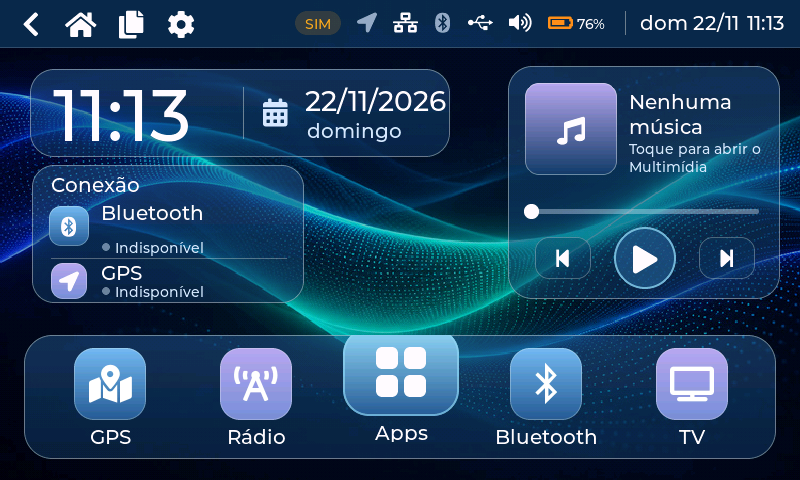
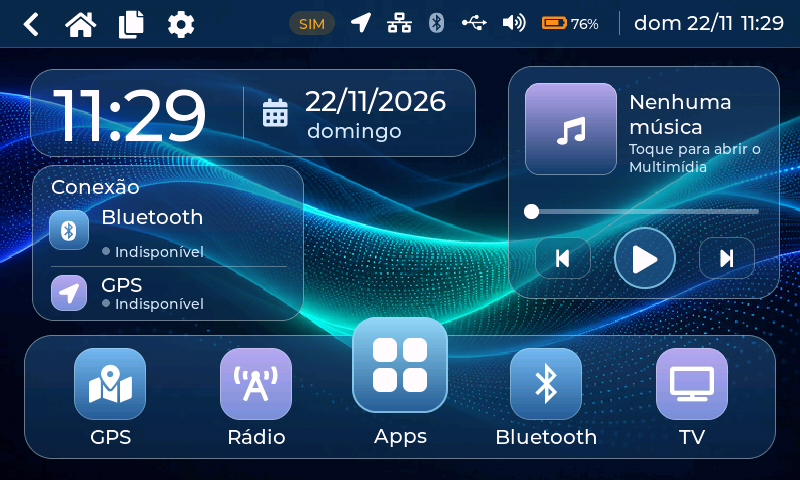
Foston Glass: folgas nos cartões e Apps quadrado vazando do dock
Pedido do usuário (foto do aparelho): a data encostava na borda do cartão do
relógio (420 -> 446 px) e o GPS na borda de baixo do cartão Conexão (138 ->
156 px, linhas espaçadas). O Apps era filho do dock e a parte acima da borda
era cortada no aparelho; agora é um quadrado arredondado de 96 px por cima do
dock (filho da tela), 18 px acima dele, com o rótulo alinhado aos outros.

diff --git a/src/ui/screens/scr_home_glass.c b/src/ui/screens/scr_home_glass.c
@@ -49,7 +49,7 @@ static void fmt_ms(char *out, size_t n, int ms)
 
 static void clock_card(lv_obj_t *p)
 {
-    lv_obj_t *c = glass_card(p, 30, 21, 420, 88, 24);
+    lv_obj_t *c = glass_card(p, 30, 21, 446, 88, 24);      /* folga à direita da data */
     clk = glass_label(c, "--:--", BF_FONT_CLOCK, GL_WHITE);
     lv_obj_align(clk, LV_ALIGN_LEFT_MID, 22, 2);
     lv_obj_t *div = lv_obj_create(c);
@@ -132,11 +132,11 @@ static lv_obj_t *dot(lv_obj_t *parent)
 
 static void conn_card(lv_obj_t *p)
 {
-    lv_obj_t *c = glass_card(p, 32, 117, 272, 138, 22);
+    lv_obj_t *c = glass_card(p, 32, 117, 272, 156, 22);     /* folga abaixo do GPS */
     lv_obj_t *t = glass_label(c, tr(S_GL_CONNECTION), BF_FONT_M, GL_WHITE);
-    lv_obj_set_pos(t, 18, 6);
+    lv_obj_set_pos(t, 18, 8);
 
-    lv_obj_t *r = row(c, 32, 58, open_bt);
+    lv_obj_t *r = row(c, 36, 60, open_bt);
     lv_obj_t *ic = glass_tile(r, 40, 12, GL_LIGHT, GL_BLUE, NULL, LV_SYMBOL_BLUETOOTH, BF_FONT_M);
     lv_obj_set_pos(ic, 10, 8);
     lv_obj_t *n = glass_label(r, tr(S_APP_BLUETOOTH), BF_FONT_M, GL_WHITE);
@@ -153,11 +153,11 @@ static void conn_card(lv_obj_t *p)
     lv_obj_t *line = lv_obj_create(c);
     lv_obj_remove_style_all(line);
     lv_obj_set_size(line, 236, 1);
-    lv_obj_set_pos(line, 18, 92);
+    lv_obj_set_pos(line, 18, 100);
     lv_obj_set_style_bg_color(line, lv_color_white(), 0);
     lv_obj_set_style_bg_opa(line, LV_OPA_30, 0);
 
-    r = row(c, 94, 42, open_gps);
+    r = row(c, 106, 42, open_gps);
     ic = glass_tile(r, 36, 12, GL_LAVENDER, GL_LAVBLUE, NULL, LV_SYMBOL_GPS, BF_FONT_M);
     lv_obj_set_pos(ic, 12, 3);
     n = glass_label(r, tr(S_APP_GPS), BF_FONT_M, GL_WHITE);
@@ -445,10 +445,22 @@ static lv_obj_t *dock_item(lv_obj_t *dock, int cx, int w, int h, int i)
     return it;
 }
 
+static void apps_squares(lv_obj_t *t)
+{
+    for(int k = 0; k < 4; k++) {          /* 2x2 quadrados brancos */
+        lv_obj_t *q = lv_obj_create(t);
+        lv_obj_remove_style_all(q);
+        lv_obj_set_size(q, 24, 24);
+        lv_obj_set_style_radius(q, 7, 0);
+        lv_obj_set_style_bg_color(q, CLR(GL_WHITE), 0);
+        lv_obj_set_style_bg_opa(q, LV_OPA_COVER, 0);
+        lv_obj_align(q, LV_ALIGN_CENTER, k % 2 ? 15 : -15, k / 2 ? 15 : -15);
+    }
+}
+
 static void dock(lv_obj_t *p)
 {
     lv_obj_t *d = glass_card(p, 24, 287, 752, 124, 28);
-    lv_obj_add_flag(d, LV_OBJ_FLAG_OVERFLOW_VISIBLE);   /* Apps sobe acima da borda */
     static const struct { const lv_image_dsc_t *icon; bf_str_t name; uint32_t top, bot; } it[5] = {
         { &bf_icon_gps, S_APP_GPS, GL_LIGHT, GL_BLUE },
         { &bf_icon_fm, S_GL_RADIO, GL_LAVENDER, GL_LAVBLUE },
@@ -458,29 +470,25 @@ static void dock(lv_obj_t *p)
     };
     static const int cx[5] = { 85, 231, 376, 521, 667 };
     for(int i = 0; i < 5; i++) {
-        bool apps = i == 2;
-        lv_obj_t *item = dock_item(d, cx[i], apps ? 132 : 120, 122, i);
-        if(apps) lv_obj_set_y(item, -16);
-        lv_obj_t *t = glass_tile(item, apps ? 92 : 72, apps ? 26 : 20, it[i].top, it[i].bot, it[i].icon, NULL, NULL);
-        if(apps) {
-            lv_obj_set_size(t, 116, 88);
-            lv_obj_set_style_border_width(t, 2, 0);
-            lv_obj_set_style_border_color(t, CLR(GL_SKY), 0);
-            lv_obj_set_style_border_opa(t, LV_OPA_70, 0);
-            for(int k = 0; k < 4; k++) {          /* 2x2 quadrados brancos */
-                lv_obj_t *q = lv_obj_create(t);
-                lv_obj_remove_style_all(q);
-                lv_obj_set_size(q, 22, 22);
-                lv_obj_set_style_radius(q, 6, 0);
-                lv_obj_set_style_bg_color(q, CLR(GL_WHITE), 0);
-                lv_obj_set_style_bg_opa(q, LV_OPA_COVER, 0);
-                lv_obj_align(q, LV_ALIGN_CENTER, k % 2 ? 14 : -14, k / 2 ? 14 : -14);
-            }
-        }
-        lv_obj_align(t, LV_ALIGN_TOP_MID, 0, apps ? 8 : 12);
+        if(i == 2) continue;                  /* Apps: peça própria, por cima do dock */
+        lv_obj_t *item = dock_item(d, cx[i], 120, 122, i);
+        lv_obj_t *t = glass_tile(item, 72, 20, it[i].top, it[i].bot, it[i].icon, NULL, NULL);
+        lv_obj_align(t, LV_ALIGN_TOP_MID, 0, 12);
         lv_obj_t *l = glass_label(item, tr(it[i].name), BF_FONT_M, GL_WHITE);
-        lv_obj_align(l, LV_ALIGN_TOP_MID, 0, apps ? 100 : 88);
+        lv_obj_align(l, LV_ALIGN_TOP_MID, 0, 88);
     }
+    /* Apps: quadrado arredondado de 96 px que vaza 18 px acima do dock; filho da tela (não
+     * do dock), para nada cortar a parte de fora; o rótulo alinha com os outros (y 375) */
+    lv_obj_t *item = dock_item(p, 24 + cx[2], 132, 140, 2);
+    lv_obj_set_y(item, 263);
+    lv_obj_t *t = glass_tile(item, 96, 24, it[2].top, it[2].bot, NULL, NULL, NULL);
+    lv_obj_set_style_border_width(t, 2, 0);
+    lv_obj_set_style_border_color(t, CLR(GL_SKY), 0);
+    lv_obj_set_style_border_opa(t, LV_OPA_80, 0);
+    apps_squares(t);
+    lv_obj_align(t, LV_ALIGN_TOP_MID, 0, 6);
+    lv_obj_t *l = glass_label(item, tr(it[2].name), BF_FONT_M, GL_WHITE);
+    lv_obj_align(l, LV_ALIGN_TOP_MID, 0, 112);
 }
 
 /* -------------------------------------------------------------------- tela */

diff --git a/docs/foston-glass/00-visao-geral.md b/docs/foston-glass/00-visao-geral.md
@@ -32,10 +32,10 @@ Tudo dentro do shell LVGL existente; nenhum processo ou serviço novo.
 | Peça | Posição no conteúdo |
 |---|---|
 | Barra superior | y 0-48 (vidro azul-profundo, 70 %) |
-| Relógio e data | (30, 21) 420x88 |
-| Conexão | (32, 117) 272x138 |
+| Relógio e data | (30, 21) 446x88 |
+| Conexão | (32, 117) 272x156 |
 | Player | (508, 18) 272x233 |
-| Dock | (24, 287) 752x124; Apps 116x88, 16 px acima do dock |
+| Dock | (24, 287) 752x124; Apps: quadrado de 96 px por cima do dock (filho da tela), 18 px acima dele |
 
 ## Dados reais
 
